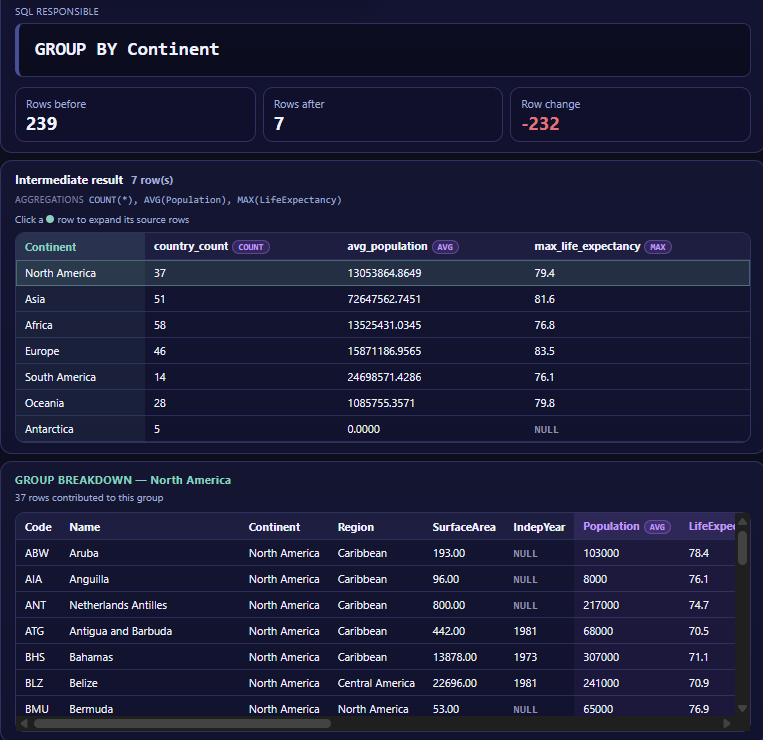
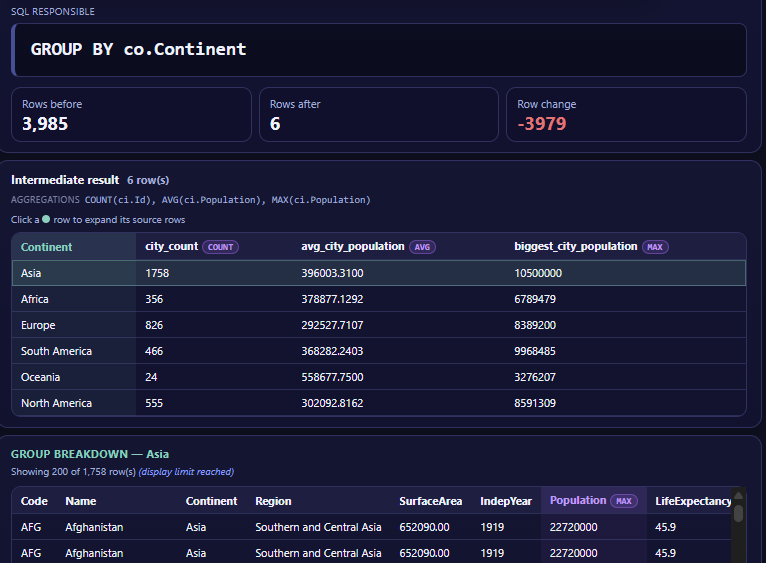
pics

Changed region(s): [[0.0, 0.0, 1.0, 0.9964], [0.9948, 0.9964, 1.0, 1.0]]

diff --git a/README.md b/README.md
@@ -4,17 +4,39 @@ Why did this query return these rows?
 
 SQL Visual Debugger helps you step through supported MySQL `SELECT` queries in SQL execution order and inspect the intermediate result after each stage inside VS Code.
 
+Instead of only showing the final output, it helps you see how rows were loaded, joined, filtered, grouped, deduplicated, sorted, limited, and otherwise transformed through the query.
+
 It is built for read-only debugging of supported MySQL query flows in v1.
 
-![SQL Visual Debugger overview](https://raw.githubusercontent.com/ArielTurgeman/sql-visual-debugger/main/images/marketplace/fullscreen.png)
+<img src="https://raw.githubusercontent.com/ArielTurgeman/sql-visual-debugger/main/images/marketplace/where.png" alt="SQL Visual Debugger WHERE step" width="430" />
 
 ## How It Works
 
 Open a `.sql` file, select a query or place your cursor inside one, then right-click and choose `SQL Debugger: Debug Query`.
 
-The extension opens a debugger panel and walks through the query step by step in SQL execution order, so you can see what happened at each stage instead of only seeing the final result.
+The extension prompts for local MySQL connection details when needed, then opens a debugger panel and walks through the query step by step in SQL execution order.
 
-![Right-click to debug](https://raw.githubusercontent.com/ArielTurgeman/sql-visual-debugger/main/images/marketplace/rightclick.png)
+That means you can inspect what happened at each stage instead of only seeing the final result.
+
+<img src="https://raw.githubusercontent.com/ArielTurgeman/sql-visual-debugger/main/images/marketplace/rightclick.png" alt="Right-click to debug a query" width="430" />
+
+## See What The JOIN Did
+
+When a query joins tables, the debugger shows both sides of the join, the join condition, the row-count change, and the joined result.
+
+This makes it much easier to understand why rows matched, duplicated, or disappeared.
+
+<img src="https://raw.githubusercontent.com/ArielTurgeman/sql-visual-debugger/main/images/marketplace/join.png" alt="JOIN debugging example" width="430" />
+
+## See How GROUP BY Changes The Data
+
+For supported grouped queries, the debugger shows the grouped output and lets you inspect the rows that contributed to each group.
+
+This helps explain aggregation instead of making it feel like a black box.
+
+<img src="https://raw.githubusercontent.com/ArielTurgeman/sql-visual-debugger/main/images/marketplace/groupby.png" alt="GROUP BY debugging example" width="430" />
+
+SQL Visual Debugger also helps you inspect filtering, projection, deduplication, sorting, limits, supported CTE flows, supported subqueries, and more.
 
 ## What It Helps You Understand
 
@@ -33,28 +55,6 @@ The extension opens a debugger panel and walks through the query step by step in
 - `FROM` subqueries - understand how supported derived tables feed the outer query
 - `WHERE IN` subqueries - inspect supported subquery-based filtering
 - scalar subqueries in `WHERE` - understand supported subquery comparisons in filters
-
-## See What The JOIN Did
-
-When a query joins tables, the debugger shows both sides of the join, the join condition, the row-count change, and the joined result.
-
-This makes it much easier to understand why rows matched, duplicated, or disappeared.
-
-![JOIN step](https://raw.githubusercontent.com/ArielTurgeman/sql-visual-debugger/main/images/marketplace/joinfullscreen.png)
-
-## See How GROUP BY Changes The Data
-
-For supported grouped queries, the debugger shows the grouped output and lets you inspect the rows that contributed to each group.
-
-This helps explain aggregation instead of making it feel like a black box.
-
-![GROUP BY step](https://raw.githubusercontent.com/ArielTurgeman/sql-visual-debugger/main/images/marketplace/fullscreen.png)
-
-## See What WHERE Removed
-
-For supported filters, the debugger shows rows before and after `WHERE`, so you can see exactly what was removed and why.
-
-![WHERE step](https://raw.githubusercontent.com/ArielTurgeman/sql-visual-debugger/main/images/marketplace/fullscreen.png)
 
 ## What V1 Supports
 
@@ -109,13 +109,3 @@ In v1 it:
 - clears cached passwords after access-denied failures so the next attempt prompts again
 
 This is not a general-purpose SQL runner. It is a focused debugger for supported MySQL query analysis.
-
-## Simple Connection Flow
-
-In v1, SQL Visual Debugger supports local MySQL connections only.
-
-When needed, the extension prompts for connection details inside VS Code and keeps the flow simple.
-
-![Local MySQL host prompt](https://raw.githubusercontent.com/ArielTurgeman/sql-visual-debugger/main/images/marketplace/localhost.png)
-
-![Password prompt](https://raw.githubusercontent.com/ArielTurgeman/sql-visual-debugger/main/images/marketplace/password.png)
